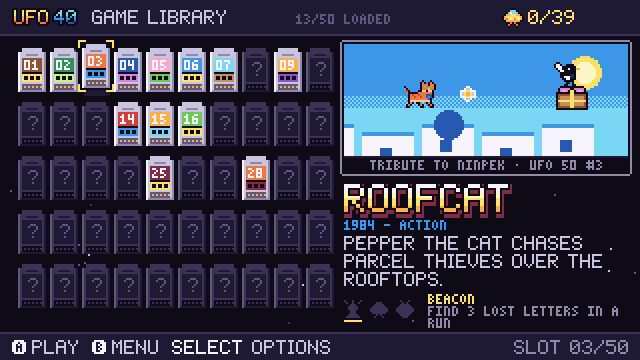
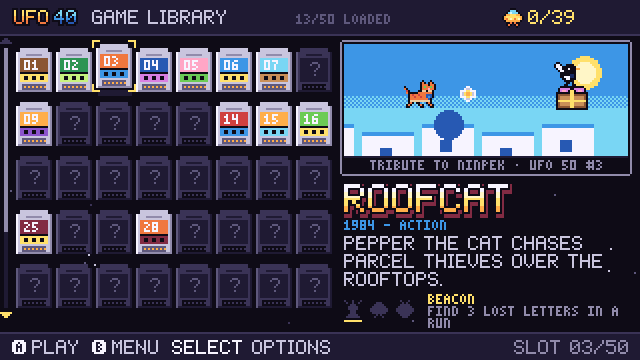
Library: full-size cartridges again, grid scrolls through all 50 slots
The 10x5 grid of 14-pixel cartridges felt squished. The library goes back
to the original cartridges (18 wide in 20-pixel cells) and eight columns,
and now holds seven rows (the last one just 49 and 50), five on screen at a
time. The grid eases a row at a time to keep the cursor in view, and a
scroll bar in the left margin, with arrows that light up, shows when there
is more above or below. Left/right wrap within a row; up/down wrap top to
bottom, and a column the short last row lacks lands on slot 50.

The info panel, tribute sticker, goals, N/50 LOADED and SLOT NN/50 stay.
tests/shell_library_scroll.ufs walks to slots 41-50 and checks the scroll
(new library_top/library_scroll/library_rows probes). The console shots are
regenerated, with a new library_scrolled shot in the README.

Changed region(s): [[0.0, 0.0917, 0.5312, 0.8861]]

diff --git a/src/shell/library.c b/src/shell/library.c
@@ -1,25 +1,46 @@
-/* UFO 40 - the game library: 50 cartridge slots, ten to a row, so each row
- * is one decade of UFO 50 numbers (01-10, 11-20 ...). */
+/* UFO 40 - the game library: 50 cartridge slots in full-size cartridges,
+ * eight to a row. Five rows show at a time; the grid scrolls to follow the
+ * cursor, and a bar in the left margin shows what lies above and below. */
 #include "shell.h"
 
-#define GRID_X 9
+#define GRID_X 8
 #define GRID_Y 24
-#define CELL_W 16
+#define CELL_W 20
 #define CELL_H 27
-#define COLS 10
-#define ROWS 5
-_Static_assert(COLS * ROWS == GAME_SLOTS, "the grid holds every slot");
+#define COLS 8
+#define ROWS ((GAME_SLOTS + COLS - 1) / COLS) /* 7: the last row holds 49-50 */
+#define VIS_ROWS 5                            /* rows on screen at once */
+#define MAX_TOP (ROWS - VIS_ROWS)
+#define VIEW_Y0 18                            /* the grid's window, under the header */
+#define VIEW_Y1 159                           /* ... and over the footer */
 #define PANEL_X 172
 #define PANEL_W 142
 
 static int t, launch_t, shake_t;
 static bool launching;
+static int top_row;   /* first row in view */
+static int scroll_px; /* drawn offset in pixels, easing toward top_row * CELL_H */
+
+/* Slots in row r (the last row is short). */
+static int row_len(int r) { return imin(COLS, GAME_SLOTS - r * COLS); }
+
+/* Bring the cursor's row into view, moving the window as little as possible. */
+static void follow_cursor(void) {
+    int r = g_library_cursor / COLS;
+    if (r < top_row) top_row = r;
+    if (r >= top_row + VIS_ROWS) top_row = r - VIS_ROWS + 1;
+    top_row = iclamp(top_row, 0, MAX_TOP);
+}
 
 static void lib_enter(void) {
     t = 0;
     launching = false;
     launch_t = 0;
     shake_t = 0;
+    if (g_library_cursor < 0 || g_library_cursor >= GAME_SLOTS) g_library_cursor = 0;
+    top_row = 0;
+    follow_cursor();
+    scroll_px = top_row * CELL_H; /* no slide when the screen opens */
     game_set_pausable(true);
     shell_menu_music();
 }
@@ -33,6 +54,9 @@ static int available_count(void) {
 static void lib_update(void) {
     t++;
     if (shake_t > 0) shake_t--;
+    /* ease the view toward its row: a quarter of the way each frame */
+    int want = top_row * CELL_H, d = want - scroll_px;
+    if (d) scroll_px += d / 4 ? d / 4 : (d > 0 ? 1 : -1);
     if (launching) {
         launch_t++;
         if (launch_t == 26) gfx_set_flash(3);
@@ -40,13 +64,17 @@ static void lib_update(void) {
         return;
     }
     int c = g_library_cursor % COLS, r = g_library_cursor / COLS;
-    int oc = c, or_ = r;
-    if (btn_repeat(BTN_LEFT)) c = (c + COLS - 1) % COLS;
-    if (btn_repeat(BTN_RIGHT)) c = (c + 1) % COLS;
+    int old = g_library_cursor;
+    /* left/right wrap within the row; up/down wrap top to bottom, and a
+     * column the short last row lacks lands on its last slot */
+    if (btn_repeat(BTN_LEFT)) c = (c + row_len(r) - 1) % row_len(r);
+    if (btn_repeat(BTN_RIGHT)) c = (c + 1) % row_len(r);
     if (btn_repeat(BTN_UP)) r = (r + ROWS - 1) % ROWS;
     if (btn_repeat(BTN_DOWN)) r = (r + 1) % ROWS;
-    if (c != oc || r != or_) {
+    c = imin(c, row_len(r) - 1);
+    if (r * COLS + c != old) {
         g_library_cursor = r * COLS + c;
+        follow_cursor();
         sfx_play_name("ui_move");
     }
     if (btnp(BTN_A) || btnp(BTN_START)) {
@@ -69,36 +97,53 @@ static void lib_update(void) {
     }
 }
 
-/* A cartridge 14 pixels wide (the cell is 16). */
 static void draw_cart(int x, int y, int idx, bool sel) {
     const GameDef *g = GAMES[idx];
     int body = g ? C_LIGHT : C_DUSK, edge = g ? C_GREY : C_NIGHT, dark = g ? C_SLATE : C_INK;
-    gfx_rect(x + 2, y, 10, 2, body);
-    gfx_rect(x, y + 2, 14, 20, body);
-    gfx_vline(x + 13, y + 2, y + 21, edge);
-    gfx_hline(x, x + 13, y + 21, edge);
+    gfx_rect(x + 2, y, 14, 2, body);
+    gfx_rect(x, y + 2, 18, 20, body);
+    gfx_vline(x + 17, y + 2, y + 21, edge);
+    gfx_hline(x, x + 17, y + 21, edge);
     gfx_vline(x, y + 2, y + 21, g ? C_WHITE : C_SLATE);
     /* grip ridges */
-    for (int i = 0; i < 3; i++) gfx_hline(x + 4, x + 9, y + 2 + i, i % 2 ? edge : body);
+    for (int i = 0; i < 3; i++) gfx_hline(x + 5, x + 12, y + 1 + i * 1 + 1, i % 2 ? edge : body);
     char num[12];
     snprintf(num, sizeof num, "%02d", idx + 1);
     if (g) {
-        gfx_rect(x + 2, y + 5, 10, 12, g->cart_main);
-        gfx_rect(x + 2, y + 13, 10, 4, g->cart_accent);
-        gfx_hline(x + 2, x + 11, y + 12, C_INK);
-        tiny_draw(num, x + 3, y + 6, C_WHITE);
+        gfx_rect(x + 2, y + 5, 14, 12, g->cart_main);
+        gfx_rect(x + 2, y + 13, 14, 4, g->cart_accent);
+        gfx_hline(x + 2, x + 15, y + 12, C_INK);
+        tiny_draw(num, x + 4, y + 6, C_WHITE);
         /* goal pips */
         for (int b = 0; b < 3; b++) {
             bool on = (g_progress.goals[idx] >> b) & 1;
-            gfx_rect(x + 3 + b * 3, y + 14, 2, 2, on ? C_YELLOW : C_INK);
+            gfx_rect(x + 4 + b * 4, y + 14, 2, 2, on ? C_YELLOW : C_INK);
         }
     } else {
-        gfx_rect(x + 2, y + 5, 10, 12, C_NIGHT);
-        text_draw("?", x + 5, y + 7, sel ? C_GREY : C_SLATE);
+        gfx_rect(x + 2, y + 5, 14, 12, C_NIGHT);
+        text_draw("?", x + 7, y + 7, sel ? C_GREY : C_SLATE);
     }
     /* contacts */
-    gfx_rect(x + 2, y + 18, 10, 3, dark);
-    for (int i = 0; i < 5; i++) gfx_pset(x + 3 + i * 2, y + 19, g ? C_AMBER : C_DUSK);
+    gfx_rect(x + 3, y + 18, 12, 3, dark);
+    for (int i = 0; i < 6; i++) gfx_pset(x + 4 + i * 2, y + 19, g ? C_AMBER : C_DUSK);
+}
+
+/* The scroll bar in the left margin: its arrows light up when there is more
+ * above or below, and the thumb shows which five of the rows are in view. */
+static void draw_scrollbar(void) {
+    int x = 2, y0 = GRID_Y, y1 = GRID_Y + VIS_ROWS * CELL_H - 6;
+    int track = y1 - y0 + 1;
+    int thumb = track * VIS_ROWS / ROWS;
+    int pos = y0 + (track - thumb) * scroll_px / (MAX_TOP * CELL_H);
+    gfx_rect(x, y0, 2, track, C_NIGHT);
+    gfx_rect(x, pos, 2, thumb, C_GREY);
+    int lit = (t / 20) % 2 ? C_YELLOW : C_AMBER;
+    int up = top_row > 0 ? lit : C_DUSK;
+    int dn = top_row < MAX_TOP ? lit : C_DUSK;
+    for (int i = 0; i < 3; i++) {
+        gfx_hline(x - i, x + 1 + i, y0 - 5 + i, up); /* ^ over the track */
+        gfx_hline(x - i, x + 1 + i, y1 + 5 - i, dn); /* v under it */
+    }
 }
 
 static void draw_panel(void) {
@@ -208,9 +253,11 @@ static void lib_draw(void) {
 
     /* grid */
     int shake = shake_t > 0 ? ((shake_t / 2) % 2 ? 2 : -2) : 0;
+    gfx_clip(0, VIEW_Y0, PANEL_X - 3, VIEW_Y1 - VIEW_Y0);
     for (int i = 0; i < GAME_SLOTS; i++) {
         int c = i % COLS, r = i / COLS;
-        int x = GRID_X + c * CELL_W, y = GRID_Y + r * CELL_H;
+        int x = GRID_X + c * CELL_W, y = GRID_Y + r * CELL_H - scroll_px;
+        if (y + 21 < VIEW_Y0 + 2 || y >= VIEW_Y1) continue; /* out of view */
         bool sel = i == g_library_cursor;
         int lift = 0;
         if (sel) {
@@ -219,18 +266,20 @@ static void lib_draw(void) {
             x += shake;
         }
         if (sel && launching && launch_t > 20 && (launch_t / 2) % 2) continue;
-        if (sel) gfx_rect(x + 1, y + 21, 13, 3, C_NIGHT); /* shadow */
+        if (sel) gfx_rect(x + 1, y + 21, 17, 3, C_NIGHT); /* shadow */
         draw_cart(x, y - lift, i, sel);
         if (sel && !launching) {
             int bl = (t / 16) % 2;
             int col = GAMES[i] ? C_YELLOW : C_GREY;
-            int x0 = x - 2 - bl, y0 = y - lift - 2 - bl, x1 = x + 15 + bl, y1 = y - lift + 23 + bl;
+            int x0 = x - 2 - bl, y0 = y - lift - 2 - bl, x1 = x + 19 + bl, y1 = y - lift + 23 + bl;
             gfx_hline(x0, x0 + 3, y0, col); gfx_vline(x0, y0, y0 + 3, col);
             gfx_hline(x1 - 3, x1, y0, col); gfx_vline(x1, y0, y0 + 3, col);
             gfx_hline(x0, x0 + 3, y1, col); gfx_vline(x0, y1 - 3, y1, col);
             gfx_hline(x1 - 3, x1, y1, col); gfx_vline(x1, y1 - 3, y1, col);
         }
     }
+    gfx_noclip();
+    draw_scrollbar();
     draw_panel();
 
     /* footer */
@@ -242,6 +291,13 @@ static void lib_draw(void) {
     text_draw("OPTIONS", fx + 4, 170, C_LIGHT);
     snprintf(buf, sizeof buf, "SLOT %02d/%d", g_library_cursor + 1, GAME_SLOTS);
     text_draw(buf, SCREEN_W - 6 - text_width(buf), 170, C_GREY);
+}
+
+bool library_query(const char *key, int *out) {
+    if (!strcmp(key, "library_top")) { *out = top_row; return true; }
+    if (!strcmp(key, "library_scroll")) { *out = scroll_px; return true; }
+    if (!strcmp(key, "library_rows")) { *out = ROWS; return true; }
+    return false;
 }
 
 const Scene SCENE_LIBRARY = {"library", lib_enter, lib_update, lib_draw, NULL};

diff --git a/src/shell/app.c b/src/shell/app.c
@@ -112,6 +112,7 @@ bool menu_query(const char *key, int *out);
 bool options_query(const char *key, int *out);
 bool jukebox_query(const char *key, int *out);
 bool savedata_query(const char *key, int *out);
+bool library_query(const char *key, int *out);
 
 bool shell_query(const char *key, int *out) {
     if (!strcmp(key, "music_vol")) { *out = g_progress.music_vol; return true; }
@@ -139,7 +140,8 @@ bool shell_query(const char *key, int *out) {
         *out = g >= 0 ? g_progress.played[g] : -1;
         return true;
     }
-    return menu_query(key, out) || options_query(key, out) || jukebox_query(key, out) || savedata_query(key, out);
+    return menu_query(key, out) || options_query(key, out) || jukebox_query(key, out) || savedata_query(key, out) ||
+           library_query(key, out);
 }
 
 void app_update(void) { engine_update(); }

diff --git a/README.md b/README.md
@@ -76,6 +76,12 @@ and the music and sound volumes are in every game's pause menu too.
 
 <p align="center"><img src="docs/shots/library.png" width="640" alt="The UFO 40 game library with 50 cartridge slots"></p>
 
+Eight full-size cartridges to a row, five rows at a time: the grid scrolls
+as the cursor moves down to slots 41–50, and a bar in the left margin shows
+when there is more above or below.
+
+<p align="center"><img src="docs/shots/library_scrolled.png" width="320" alt="The library scrolled down to slots 41-50"></p>
+
 | # | Cartridge | Tribute to | What plays the same | What's ours |
 |---|---|---|---|---|
 | 01 | **UNDERDELVE** | Barbuta | an 8×8 wrapping map, one-hit deaths, six spare lives and no continue, one fixed jump with no air control, a roaming death that moves a room whenever you do, traps, hidden walls and ladders, hint-givers, a death taken on purpose, items that open the way, three paths to the final boss | Mo the mole, a dark mine, the Gloom, the glow-worms, 64 new screens |
